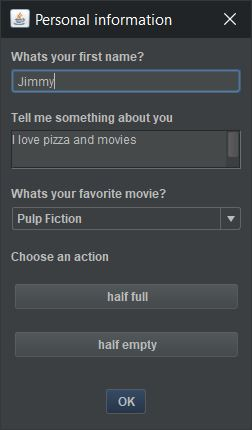
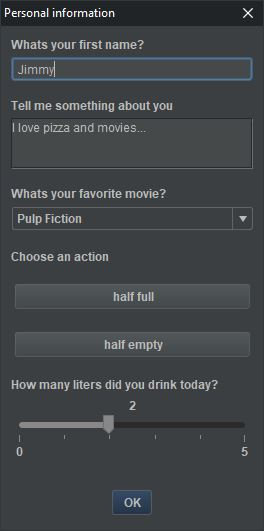
Adds a slide as dialog and integrates it to form, too.

Changed region(s): [[0.0, 0.0, 1.0, 0.8767], [0.4167, 0.907, 0.5833, 0.9674], [0.9167, 0.6651, 0.9444, 0.6953]]

diff --git a/src/main/java/de/milchreis/uibooster/UiBooster.java b/src/main/java/de/milchreis/uibooster/UiBooster.java
@@ -335,4 +335,36 @@ public class UiBooster {
     public void createNotification(String title, String message) {
         new Notification().display(title, message);
     }
+
+    /**
+     * Shows a dialog with a customizable slider, to ask the user for amounts.
+     * The dialogs blocks the process until it's closed.
+     *
+     * @param title     expects a title for the window
+     * @param message   expects a message for the meaning of this selection
+     * @param min       expects the lowest allowed value
+     * @param max       expects the highest allowed value
+     * @param init      expects the number to start with
+     * @return          the selected value or null if the dialog was closed
+     */
+    public Integer showSlider(String title, String message, int min, int max, int init) {
+        return SliderDialog.showDialog(message, title, min, max, init, 10, 1);
+    }
+
+    /**
+     * Shows a dialog with a customizable slider, to ask the user for amounts.
+     * The dialogs blocks the process until it's closed.
+     *
+     * @param title     expects a title for the window
+     * @param message   expects a message for the meaning of this selection
+     * @param min       expects the lowest allowed value
+     * @param max       expects the highest allowed value
+     * @param init      expects the number to start with
+     * @param majorTick expects the number of steps for the labeled ticks
+     * @param minorTick expects the number of steps for each tick
+     * @return          the selected value or null if the dialog was closed
+     */
+    public Integer showSlider(String title, String message, int min, int max, int init, int majorTick, int minorTick) {
+        return SliderDialog.showDialog(message, title, min, max, init, majorTick, minorTick);
+    }
 }

diff --git a/src/main/java/de/milchreis/uibooster/components/SliderDialog.java b/src/main/java/de/milchreis/uibooster/components/SliderDialog.java
@@ -1,0 +1,44 @@
+package de.milchreis.uibooster.components;
+
+import de.milchreis.uibooster.model.DialogClosingState;
+import org.jetbrains.annotations.NotNull;
+
+import javax.swing.*;
+import javax.swing.event.ChangeEvent;
+import javax.swing.event.ChangeListener;
+import java.awt.event.WindowAdapter;
+import java.awt.event.WindowEvent;
+
+public class SliderDialog {
+
+    public static Integer showDialog(String message, String title, int min, int max, int init, int majorTick, int minorTick) {
+
+        JLabel current = new JLabel(init+"");
+        current.setHorizontalAlignment(JLabel.CENTER);
+
+        JSlider slider = createSlider(min, max, init, majorTick, minorTick, current);
+
+        SimpleBlockingDialog dialog = new SimpleBlockingDialog(current, slider);
+        DialogClosingState closingState = dialog.showDialog(message, title);
+
+        return closingState.isClosedByUser() ?  null : slider.getValue();
+    }
+
+    @NotNull
+    public static JSlider createSlider(int min, int max, int init, int majorTick, int minorTick, JLabel current) {
+        JSlider slider = new JSlider(JSlider.HORIZONTAL, min, max, init);
+        slider.setMajorTickSpacing(majorTick);
+        slider.setMinorTickSpacing(minorTick);
+        slider.setLabelTable(slider.createStandardLabels(majorTick));
+        slider.setPaintTicks(true);
+        slider.setPaintLabels(true);
+        slider.addChangeListener(new ChangeListener() {
+            @Override
+            public void stateChanged(ChangeEvent e) {
+                current.setText(slider.getValue()+"");
+            }
+        });
+        return slider;
+    }
+
+}

diff --git a/src/main/java/de/milchreis/uibooster/components/ColorPickerDialog.java b/src/main/java/de/milchreis/uibooster/components/ColorPickerDialog.java
@@ -3,16 +3,11 @@ package de.milchreis.uibooster.components;
 import com.bric.colorpicker.ColorPicker;
 import de.milchreis.uibooster.model.DialogClosingState;
 
-import javax.swing.*;
 import java.awt.*;
-import java.awt.event.WindowAdapter;
-import java.awt.event.WindowEvent;
 
 public class ColorPickerDialog {
 
     public static Color showColorPicker(String message, String title) {
-
-        DialogClosingState closingState = new DialogClosingState();
 
         ColorPicker picker = new ColorPicker(false,false);
         picker.setColor(new Color(219, 185, 47));
@@ -22,23 +17,10 @@ public class ColorPickerDialog {
         picker.setHSBControlsVisible(false);
         picker.setVisible(true);
 
-        JOptionPane optionPane = new JOptionPane();
-        optionPane.setMessage(new Object[]{message, picker});
+        SimpleBlockingDialog dialog = new SimpleBlockingDialog(picker);
+        DialogClosingState closingState = dialog.showDialog(message, title);
 
-        JDialog dialog = optionPane.createDialog(null, title);
-        dialog.setDefaultCloseOperation(JFrame.DISPOSE_ON_CLOSE);
-        dialog.setAlwaysOnTop(true);
-        dialog.addWindowListener(new WindowAdapter() {
-            @Override
-            public void windowClosed(WindowEvent e) {
-                closingState.setClosedByUser(true);
-            }
-        });
-
-        dialog.setVisible(true);
-        dialog.dispose();
-
-        return closingState.isClosedByUser() ? null : picker.getColor();
+        return closingState.isClosedByUser() ?  null : picker.getColor();
     }
 
 }

diff --git a/src/main/java/de/milchreis/uibooster/components/Form.java b/src/main/java/de/milchreis/uibooster/components/Form.java
@@ -52,9 +52,12 @@ public class Form {
         return this;
     }
 
-    public FilledForm show() {
+    public Form addSlider(String label, int min, int max, int init, int majorTick, int minorTick) {
+        formElements.add(new SliderFormElement(label, min, max, init, majorTick, minorTick));
+        return this;
+    }
 
-        DialogClosingState closingState = new DialogClosingState();
+    public FilledForm show() {
 
         JPanel panel = new JPanel();
         panel.setLayout(new BoxLayout(panel, BoxLayout.Y_AXIS));
@@ -82,27 +85,14 @@ public class Form {
             panel.add(elementPanel);
         }
 
-        JOptionPane optionPane = new JOptionPane();
-        optionPane.setMessage(new Object[]{panel});
-
-        JDialog dialog = optionPane.createDialog(null, title);
-        dialog.setDefaultCloseOperation(JFrame.DISPOSE_ON_CLOSE);
-        dialog.setResizable(true);
-        dialog.addWindowListener(new WindowAdapter() {
-            @Override
-            public void windowClosed(WindowEvent e) {
-                closingState.setClosedByUser(true);
-            }
-        });
-
-        dialog.setVisible(true);
-        dialog.dispose();
+        SimpleBlockingDialog dialog = new SimpleBlockingDialog(panel);
+        dialog.showDialog(null, title);
 
         return new FilledForm(formElements);
     }
 
     public enum InputType {
-        TEXT, TEXT_AREA, SELECTION, LABEL, BUTTON;
+        TEXT, TEXT_AREA, SELECTION, LABEL, BUTTON, SLIDER;
     }
 
 }

diff --git a/src/main/java/de/milchreis/uibooster/model/formelements/SliderFormElement.java b/src/main/java/de/milchreis/uibooster/model/formelements/SliderFormElement.java
@@ -1,0 +1,51 @@
+package de.milchreis.uibooster.model.formelements;
+
+import de.milchreis.uibooster.components.Form;
+import de.milchreis.uibooster.components.SliderDialog;
+import de.milchreis.uibooster.model.FormElement;
+
+import javax.swing.*;
+import javax.swing.border.Border;
+import javax.swing.event.ChangeEvent;
+import javax.swing.event.ChangeListener;
+
+import java.awt.*;
+
+import static de.milchreis.uibooster.components.SliderDialog.createSlider;
+
+public class SliderFormElement extends FormElement {
+
+    private JLabel current;
+    private JSlider slider;
+
+    private int min, max, init, majorTick, minorTick;
+
+    public SliderFormElement(String label, int min, int max, int init, int majorTick, int minorTick) {
+        super(label, Form.InputType.SLIDER);
+        this.min = min;
+        this.max = max;
+        this.init = init;
+        this.majorTick = majorTick;
+        this.minorTick = minorTick;
+    }
+
+    @Override
+    public JComponent createComponent() {
+
+        current = new JLabel("1");
+        current.setHorizontalAlignment(JLabel.CENTER);
+
+        slider = createSlider(min, max, init, majorTick, minorTick, current);
+
+        JPanel panel = new JPanel(new BorderLayout());
+        panel.add(current, BorderLayout.NORTH);
+        panel.add(slider, BorderLayout.SOUTH);
+
+        return panel;
+    }
+
+    @Override
+    public String getValue() {
+        return slider.getValue() + "";
+    }
+}

diff --git a/src/main/java/de/milchreis/uibooster/components/DatePickerDialog.java b/src/main/java/de/milchreis/uibooster/components/DatePickerDialog.java
@@ -3,35 +3,18 @@ package de.milchreis.uibooster.components;
 import de.milchreis.uibooster.model.DialogClosingState;
 import org.jdesktop.swingx.JXDatePicker;
 
-import javax.swing.*;
-import java.awt.event.WindowAdapter;
-import java.awt.event.WindowEvent;
 import java.util.Date;
 
 public class DatePickerDialog {
 
     public static Date showDatePicker(String message, String title) {
 
-        DialogClosingState closingState = new DialogClosingState();
-
         JXDatePicker datePicker = new JXDatePicker(new Date(System.currentTimeMillis()));
-        JOptionPane optionPane = new JOptionPane();
-        optionPane.setMessage(new Object[]{message, datePicker});
 
-        JDialog dialog = optionPane.createDialog(null, title);
-        dialog.setDefaultCloseOperation(JFrame.DISPOSE_ON_CLOSE);
-        dialog.setAlwaysOnTop(true);
-        dialog.addWindowListener(new WindowAdapter() {
-            @Override
-            public void windowClosed(WindowEvent e) {
-                closingState.setClosedByUser(true);
-            }
-        });
+        SimpleBlockingDialog dialog = new SimpleBlockingDialog(datePicker);
+        DialogClosingState closingState = dialog.showDialog(message, title);
 
-        dialog.setVisible(true);
-        dialog.dispose();
-
-        return closingState.isClosedByUser() ? null : datePicker.getDate();
+        return closingState.isClosedByUser() ?  null : datePicker.getDate();
     }
 
 }

diff --git a/src/main/java/de/milchreis/uibooster/components/SimpleBlockingDialog.java b/src/main/java/de/milchreis/uibooster/components/SimpleBlockingDialog.java
@@ -1,0 +1,42 @@
+package de.milchreis.uibooster.components;
+
+import de.milchreis.uibooster.model.DialogClosingState;
+
+import javax.swing.*;
+import java.awt.event.WindowAdapter;
+import java.awt.event.WindowEvent;
+
+public class SimpleBlockingDialog {
+
+    private JComponent[] components;
+    private DialogClosingState closingState = new DialogClosingState();
+
+    public SimpleBlockingDialog(JComponent... component) {
+        this.components = component;
+    }
+
+    public DialogClosingState showDialog(String message, String title) {
+
+        JOptionPane optionPane = new JOptionPane();
+
+        if(message != null && !message.isEmpty())
+            optionPane.setMessage(new Object[]{message, components});
+        else
+            optionPane.setMessage(new Object[]{components});
+
+        JDialog dialog = optionPane.createDialog(null, title);
+        dialog.setDefaultCloseOperation(JFrame.DISPOSE_ON_CLOSE);
+        dialog.addWindowListener(new WindowAdapter() {
+            @Override
+            public void windowClosed(WindowEvent e) {
+                closingState.setClosedByUser(true);
+            }
+        });
+
+        dialog.setVisible(true);
+        dialog.dispose();
+
+        return closingState;
+    }
+
+}

diff --git a/src/test/java/de/milchreis/uibooster/UiBoosterTest.java b/src/test/java/de/milchreis/uibooster/UiBoosterTest.java
@@ -162,6 +162,7 @@ class UiBoosterTest {
                 .addLabel("Choose an action")
                 .addButton("half full", () -> booster.showInfoDialog("Optimist"))
                 .addButton("half empty", () -> booster.showInfoDialog("Pessimist"))
+                .addSlider("How many liters did you drink today?", 0, 5, 1, 5, 1)
                 .show();
 
         form.getElements().forEach(e -> {
@@ -188,5 +189,12 @@ class UiBoosterTest {
         } catch (InterruptedException e) {
             e.printStackTrace();
         }
+    }
+
+    @Test
+    public void test_slider_dialog() {
+        Integer numberOfHotDogs = booster.showSlider("Your order", "How many HotDogs do you want?",
+                0, 10, 2, 5, 1);
+        System.out.println(numberOfHotDogs);
     }
 }

diff --git a/README.md b/README.md
@@ -21,6 +21,7 @@ If you like this project and you want to keep me awake 🤪
  - [Text input dialog](#text-input-dialog)
  - [Confirmation dialog](#confirmation-dialog)
  - [Selection dialog](#selection-dialog)
+ - [Slider dialog](#slider-dialog)
  - [Colorpicker](#colorpicker)
  - [Datepicker](#datepicker)
  - [File and directory selection dialogs](#file-and-directory-selection-dialogs)
@@ -69,6 +70,13 @@ String selection = new UiBooster().showSelectionDialog(
         "What's your favorite movie?",
         "Favorite Movie?",
         Arrays.asList("Pulp Fiction", "Bambi", "The Godfather", "Hangover"));
+```
+
+### Slider dialog
+![screenshot slider dialog](https://github.com/Milchreis/UiBooster/blob/master/screenshots/slider.jpg?raw=true)
+```java
+Integer numberOfHotDogs = new UiBooster().showSlider("Your order", "How many HotDogs do you want?", 
+                0, 10, 2, 5, 1);
 ```
 
 ### Colorpicker
@@ -168,6 +176,7 @@ FilledForm form = booster.createForm("Personal informations")
             .addLabel("Choose an action")
             .addButton("half full", () -> booster.showInfoDialog("Optimist"))
             .addButton("half empty", () -> booster.showInfoDialog("Pessimist"))
+            .addSlider("How many liters did you drink today?", 0, 5, 1, 5, 1)
             .show();
 ```
 
